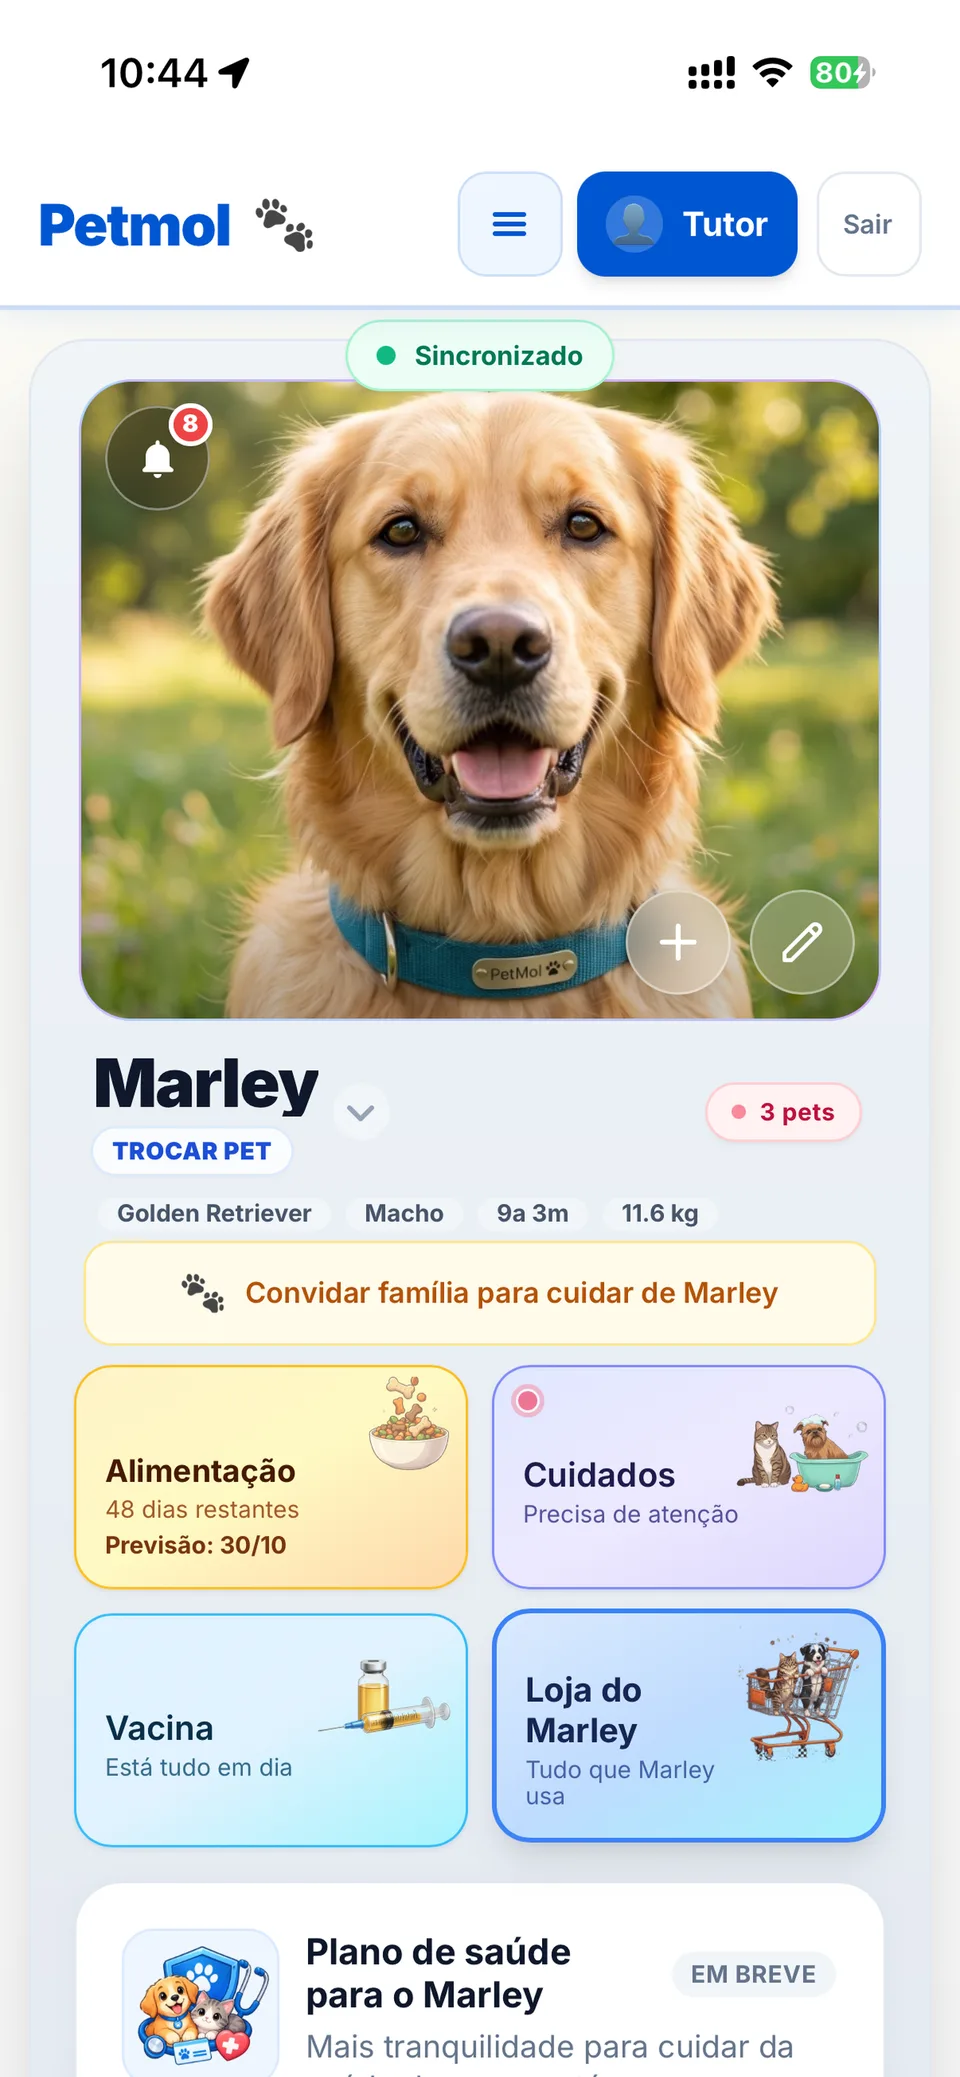
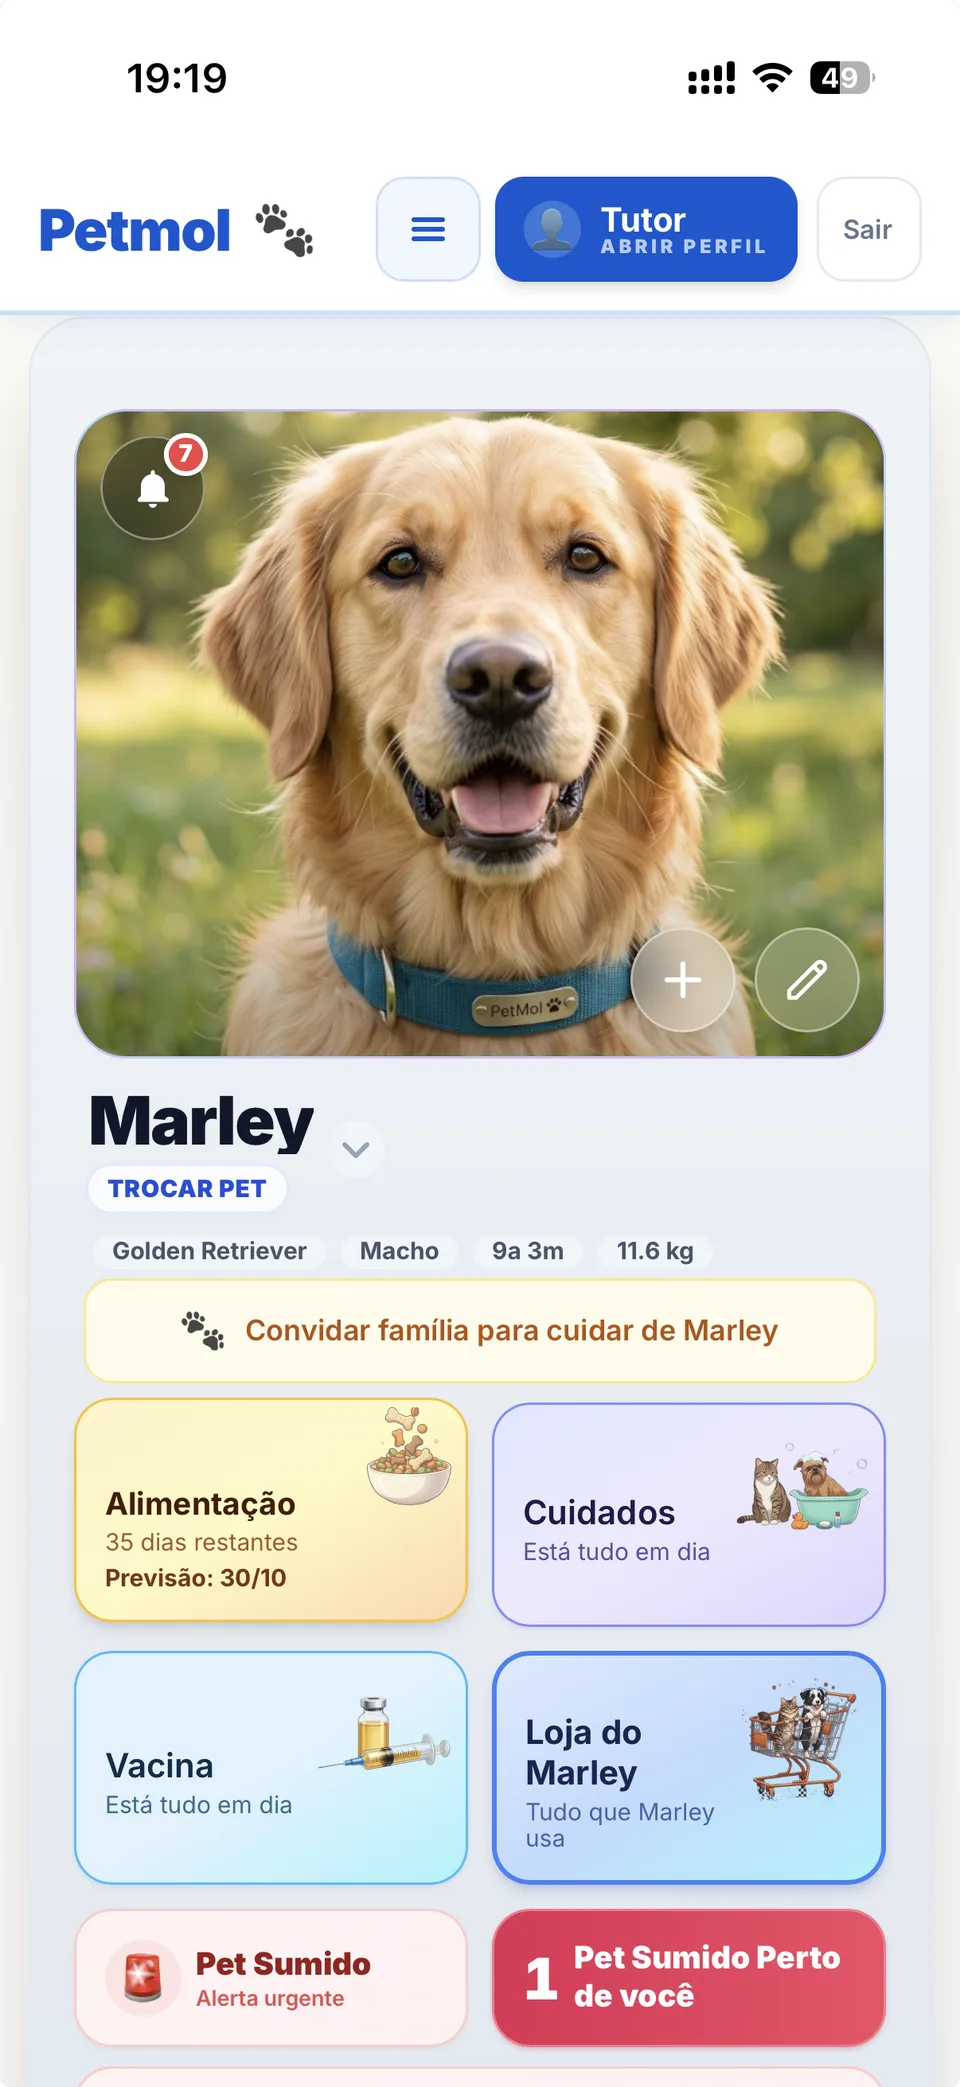
feat(landing): nova imagem da Home, mais espaço acima do botão Baixar (mobile) e volta o 'Sua opinião' (#553)
- Home da landing (mobile e zoom) trocada pela nova captura enviada pelo dono
- Botão Baixar grátis com ~27px de folga do telefone (antes 15px); telefone cabe sem rolagem em 4 tamanhos
- Reverte o esconder temporário do botão 'Sua opinião' (#552)

diff --git a/apps/web/src/app/home/page.tsx b/apps/web/src/app/home/page.tsx
@@ -35,9 +35,6 @@ const MedicationItemSheet = dynamic(() => import('@/components/home/MedicationIt
 const FoodItemSheet = dynamic(() => import('@/components/home/FoodItemSheet').then(m => ({ default: m.FoodItemSheet })), { ssr: false });
 const GroomingItemSheet = dynamic(() => import('@/components/home/GroomingItemSheet').then(m => ({ default: m.GroomingItemSheet })), { ssr: false });
 const OnboardingChecklistCard = dynamic(() => import('@/components/home/OnboardingChecklistCard').then(m => ({ default: m.OnboardingChecklistCard })), { ssr: false });
-// TEMPORÁRIO (25/09/2026): escondido a pedido do dono para tirar print da Home para a landing.
-// Para voltar: trocar para true (ou reverter este PR).
-const SHOW_FEEDBACK_FAB = false;
 const HomeFeedbackFab = dynamic(() => import('@/components/home/HomeFeedbackFab').then(m => ({ default: m.HomeFeedbackFab })), { ssr: false });
 const PermissionsNudgeCard = dynamic(() => import('@/components/home/PermissionsNudgeCard').then(m => ({ default: m.PermissionsNudgeCard })), { ssr: false });
 const PetSumidoSheet = dynamic(() => import('@/components/home/PetSumidoSheet').then(m => ({ default: m.PetSumidoSheet })), { ssr: false });
@@ -2948,7 +2945,7 @@ const [showVaccineSheet, setShowVaccineSheet] = useState(false);
         );
       })()}
 
-      {SHOW_FEEDBACK_FAB && <HomeFeedbackFab />}
+      <HomeFeedbackFab />
 
       <HomeEmergencySheet
         open={showEmergencySheet}

diff --git a/apps/web/src/components/landing/AppPreview.tsx b/apps/web/src/components/landing/AppPreview.tsx
@@ -15,7 +15,7 @@ export const SCREENS = [
 ] as const;
 
 const W = 480;
-const H = Math.round((W * 2778) / 1284);
+const H = Math.round((W * 2622) / 1206);
 
 /** "Veja por dentro": o visitante que veio do anúncio vê o app antes de decidir baixar. */
 export function AppPreview() {
@@ -116,13 +116,13 @@ export function HeroPhones() {
   const [zoom, setZoom] = useState(false);
   return (
     <>
-      <div className="relative mx-auto w-[var(--phone-w)] md:w-[200px]" style={{ ['--phone-w' as string]: 'clamp(130px, calc((100svh - 258px) * 0.462), 270px)' }}>
+      <div className="relative mx-auto w-[var(--phone-w)] md:w-[200px]" style={{ ['--phone-w' as string]: 'clamp(130px, calc((100svh - 294px) * 0.46), 270px)' }}>
         <button
           type="button"
           onClick={() => setZoom(true)}
           aria-label="Ampliar a tela do app"
           className="relative block w-full overflow-hidden rounded-[1.9rem] border-[5px] border-slate-900 bg-slate-900 shadow-xl shadow-blue-900/25 active:scale-[0.99] md:pointer-events-none"
-          style={{ aspectRatio: '1284 / 2778' }}
+          style={{ aspectRatio: '1206 / 2622' }}
         >
           {/* eslint-disable-next-line @next/next/no-img-element */}
           <img src={home.src} alt={home.alt} width={W} height={H} fetchPriority="high" decoding="async" className="block h-full w-full rounded-[1.5rem] object-cover" />

diff --git a/apps/web/src/app/page.tsx b/apps/web/src/app/page.tsx
@@ -66,7 +66,7 @@ export default function LandingPage() {
         {/* Só no celular: o que o PETMOL faz, em texto normal acima do telefone */}
         <p className="text-[22px] font-extrabold leading-tight tracking-tight text-slate-800 md:hidden">Cuidamos do seu pet.</p>
         <div className="md:mt-3"><HeroPhones /></div>
-        <div className="mx-auto w-full max-w-sm md:mt-3">
+        <div className="mx-auto w-full max-w-sm pt-6 md:mt-3 md:pt-0">
           <DownloadCta placement="hero-botao" targetId="lojas-hero" />
           <div className="mt-2.5"><DownloadButton placement="hero" compact /></div>
           <p className="mt-2 text-[13px] font-semibold text-slate-700 md:text-xs md:text-slate-400">
